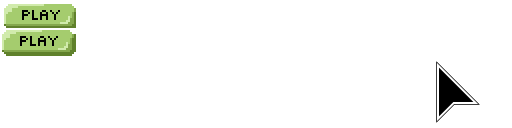
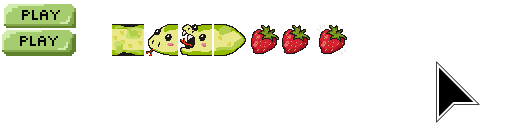
Use new images for fruit and snake

Changed region(s): [[0.2188, 0.1875, 0.6875, 0.4375]]

diff --git a/core/src/main/kotlin/fr/mwet/snake/entities/Snake.kt b/core/src/main/kotlin/fr/mwet/snake/entities/Snake.kt
@@ -10,7 +10,6 @@ import fr.mwet.snake.assets.AssetHandler
 import fr.mwet.snake.utils.SoundHelper
 import fr.mwet.snake.utils.WORLD_HEIGHT
 import fr.mwet.snake.utils.WORLD_WIDTH
-import fr.mwet.snake.utils.resetColor
 import ktx.assets.invoke
 import ktx.assets.pool
 import kotlin.math.abs
@@ -19,18 +18,23 @@ import kotlin.random.Random
 const val SNAKE_DEFAULT_SPEED = 6f
 
 class Snake(val gameWorld: GameWorld) {
-//    private val gameWorld = DI.inject<GameWorld>()
+    //    private val gameWorld = DI.inject<GameWorld>()
     private val assetHandler = DI.inject<AssetHandler>()
     private val soundHelper = DI.inject<SoundHelper>()
-    private val directionMap = arrayOf(intArrayOf(0, 1), intArrayOf(1, 0), intArrayOf(0, -1), intArrayOf(-1, 0))
     private val segmentPool = pool { Segment() }
 
     private var eTime = 0f
-    private val animation = Animation(1f / 8f, assetHandler.snakeSegment, Animation.PlayMode.LOOP_PINGPONG)
+    private val originalAnimation =
+        Animation(1f / 8f, assetHandler.snakeSegmentAnimation, Animation.PlayMode.LOOP_PINGPONG)
+    private val animation =
+        Animation(1f / 2f, assetHandler.snakeHeadAnimation, Animation.PlayMode.LOOP_PINGPONG)
+    private val animationFlipped =
+        Animation(1f / 2f, assetHandler.snakeHeadFlippedAnimation, Animation.PlayMode.LOOP_PINGPONG)
     private var color = Color.WHITE
     private lateinit var head: Segment
     private lateinit var tail: Segment
-    private var currentDirection: Int = 0
+
+    private var currentDirection: Direction = Direction.UP
     private var nextX: Int = 0
     private var nextY: Int = 0
     private var currentSpeed = SNAKE_DEFAULT_SPEED
@@ -43,7 +47,7 @@ class Snake(val gameWorld: GameWorld) {
     fun reset() {
         isDisintegrating = false
         eTime = 0f
-        currentDirection = 0
+        currentDirection = Direction.UP
         color = Color.WHITE
         currentSpeed = SNAKE_DEFAULT_SPEED
 
@@ -65,7 +69,7 @@ class Snake(val gameWorld: GameWorld) {
 
     fun render(batch: SpriteBatch, delta: Float) {
         eTime += delta
-        batch.setColor(color)
+//        batch.setColor(color)
 
         if (isDisintegrating) {
             var segment: Segment? = tail
@@ -73,7 +77,7 @@ class Snake(val gameWorld: GameWorld) {
                 segment.x += (segment.tx - segment.x) * delta * 2f
                 segment.y += (segment.ty - segment.y) * delta * 2f
                 batch.draw(
-                    animation.getKeyFrame(eTime),
+                    originalAnimation.getKeyFrame(eTime),
                     segment.x,
                     segment.y,
                     0.5f,
@@ -94,7 +98,36 @@ class Snake(val gameWorld: GameWorld) {
                     segment.x += (next.ox - segment.ox) * delta * currentSpeed
                     segment.y += (next.oy - segment.oy) * delta * currentSpeed
                 }
-                batch.draw(animation.getKeyFrame(eTime), segment.x, segment.y, 1f, 1f)
+                if (segment == tail) {
+//                    batch.draw(assetHandler.snakeTail, segment.x, segment.y, 1f, 1f)
+                    batch.draw(
+                        assetHandler.snakeTail,
+                        segment.x,
+                        segment.y,
+                        0.5f,
+                        0.5f,
+                        1f,
+                        1f,
+                        1f,
+                        1f,
+                        segment.getAngleFromNext()
+                    )
+                } else if (segment == head) {
+                } else {
+//                    batch.draw(animation.getKeyFrame(eTime), segment.x, segment.y, 1f, 1f)
+                    batch.draw(
+                        assetHandler.snakeBody,
+                        segment.x,
+                        segment.y,
+                        0.5f,
+                        0.5f,
+                        1f,
+                        1f,
+                        1f,
+                        1f,
+                        segment.getAngleFromNext()
+                    )
+                }
                 segment = next
             }
 
@@ -103,11 +136,38 @@ class Snake(val gameWorld: GameWorld) {
 
             if (hitBoundariesTest() || hitBodyTest()) disintegrate()
 
-            batch.draw(animation.getKeyFrame(eTime), head.x, head.y, 1f, 1f)
+//            batch.draw(animation.getKeyFrame(eTime), head.x, head.y, 1f, 1f)
+            if (currentDirection == Direction.RIGHT) {
+                batch.draw(
+                    animationFlipped.getKeyFrame(eTime),
+                    head.x,
+                    head.y,
+                    0.5f,
+                    0.5f,
+                    1f,
+                    1f,
+                    1f,
+                    1f,
+                    head.getAngleFromDirection(currentDirection)
+                )
+            } else {
+                batch.draw(
+                    animation.getKeyFrame(eTime),
+                    head.x,
+                    head.y,
+                    0.5f,
+                    0.5f,
+                    1f,
+                    1f,
+                    1f,
+                    1f,
+                    head.getAngleFromDirection(currentDirection)
+                )
+            }
             if (abs(nextX - head.x) < 0.15f && abs(nextY - head.y) < 0.15f) shiftSegments()
         }
 
-        batch.resetColor()
+//        batch.resetColor()
     }
 
     private fun shiftSegments() {
@@ -130,12 +190,12 @@ class Snake(val gameWorld: GameWorld) {
     }
 
     private fun updateNext() {
-        nextX = head.ox + directionMap[currentDirection][0]
-        nextY = head.oy + directionMap[currentDirection][1]
+        nextX = head.ox + currentDirection.directionX
+        nextY = head.oy + currentDirection.directionY
     }
 
-    fun setDirection(newDirection: Int) {
-        if (abs((currentDirection - newDirection).toDouble()) == 2.0) return
+    fun setDirection(newDirection: Direction) {
+        if (newDirection.isOpposite(currentDirection)) return
         currentDirection = newDirection
     }
 
@@ -225,5 +285,40 @@ data class Segment(
         x = 0f
         y = 0f
         next = null
+    }
+
+    fun getAngleFromDirection(direction: Direction): Float {
+        return when (direction) {
+            Direction.UP -> 270f
+            Direction.RIGHT -> 180f
+            Direction.DOWN -> 90f
+            Direction.LEFT -> 0f
+        }
+    }
+
+    fun getAngleFromNext(): Float {
+        val direction = if (next == null) Direction.UP
+        else if (ox < next!!.ox) Direction.RIGHT
+        else if (ox > next!!.ox) Direction.LEFT
+        else if (oy > next!!.oy) Direction.DOWN
+        else if (oy < next!!.oy) Direction.UP
+        else /* WTF */ Direction.UP
+
+        return getAngleFromDirection(direction)
+    }
+}
+
+enum class Direction(val directionX: Int, val directionY: Int) {
+    UP(0, 1),
+    RIGHT(1, 0),
+    DOWN(0, -1),
+    LEFT(-1, 0);
+
+    fun isOpposite(direction: Direction): Boolean {
+        if (this == DOWN && direction == UP) return true
+        if (this == UP && direction == DOWN) return true
+        if (this == RIGHT && direction == LEFT) return true
+        if (this == LEFT && direction == RIGHT) return true
+        return false
     }
 }

diff --git a/core/src/main/kotlin/fr/mwet/snake/assets/AssetHandler.kt b/core/src/main/kotlin/fr/mwet/snake/assets/AssetHandler.kt
@@ -16,6 +16,7 @@ import ktx.assets.DisposableContainer
 import ktx.assets.DisposableRegistry
 import ktx.assets.getValue
 import ktx.assets.loadAsset
+import ktx.collections.toGdxArray
 import java.util.*
 
 val BACKGROUND_COLOR: Color = Color.valueOf("#1f1f1f")
@@ -64,8 +65,18 @@ class AssetHandler(private val assetManager: AssetManager) : DisposableRegistry 
 
     // Gameplay
     val gridCell: AtlasRegion by lazy { textureAtlas.findRegion("$assetsRoot/GridCell") }
-    val food: Array<AtlasRegion> by lazy { textureAtlas.findRegions("$assetsRoot/Food") }
-    val snakeSegment: Array<AtlasRegion> by lazy { textureAtlas.findRegions("$assetsRoot/SnakeSegment") }
+    val foodAnimation: Array<AtlasRegion> by lazy { textureAtlas.findRegions("$assetsRoot/Food") }
+    val snakeSegmentAnimation: Array<AtlasRegion> by lazy { textureAtlas.findRegions("$assetsRoot/SnakeSegment") }
+
+    val strawberry: AtlasRegion by lazy { textureAtlas.findRegion("$assetsRoot/Strawberry") }
+    val strawberryAnimation: Array<AtlasRegion> by lazy { textureAtlas.findRegions("$assetsRoot/StrawberryAnimation") }
+    val snakeHead: AtlasRegion by lazy { textureAtlas.findRegion("$assetsRoot/SnakeHead") }
+    val snakeHeadAnimation: Array<AtlasRegion> by lazy { textureAtlas.findRegions("$assetsRoot/SnakeHeadAnimation") }
+    val snakeHeadFlippedAnimation: Array<AtlasRegion> by lazy {
+        snakeHeadAnimation.map { AtlasRegion(it).apply { flip(false, true) } }.toGdxArray()
+    }
+    val snakeBody: AtlasRegion by lazy { textureAtlas.findRegion("$assetsRoot/SnakeBody") }
+    val snakeTail: AtlasRegion by lazy { textureAtlas.findRegion("$assetsRoot/SnakeTail") }
 
     val background: Texture by lazy { initBackground() }
 

diff --git a/core/src/main/kotlin/fr/mwet/snake/inputs/GameInputProcessor.kt b/core/src/main/kotlin/fr/mwet/snake/inputs/GameInputProcessor.kt
@@ -4,6 +4,7 @@ import com.badlogic.gdx.Input.Keys.*
 import fr.mwet.snake.entities.Snake
 import fr.mwet.snake.DI
 import fr.mwet.snake.Game
+import fr.mwet.snake.entities.Direction
 import fr.mwet.snake.screens.MainMenuScreen
 import ktx.app.KtxInputAdapter
 
@@ -12,10 +13,10 @@ class GameInputProcessor(private val snake: Snake) : KtxInputAdapter {
 
     override fun keyDown(keycode: Int): Boolean {
         when (keycode) {
-            UP, W -> snake.setDirection(0)
-            RIGHT, D -> snake.setDirection(1)
-            DOWN, S -> snake.setDirection(2)
-            LEFT, A -> snake.setDirection(3)
+            UP, W -> snake.setDirection(Direction.UP)
+            RIGHT, D -> snake.setDirection(Direction.RIGHT)
+            DOWN, S -> snake.setDirection(Direction.DOWN)
+            LEFT, A -> snake.setDirection(Direction.LEFT)
             ESCAPE -> game.setScreen<MainMenuScreen>()
         }
         return true

diff --git a/core/src/main/kotlin/fr/mwet/snake/entities/Food.kt b/core/src/main/kotlin/fr/mwet/snake/entities/Food.kt
@@ -14,16 +14,17 @@ class Food {
     private val assetHandler = DI.inject<AssetHandler>()
 
     private var eTime = 0f
-    private val animation = Animation(1f / 8f, assetHandler.food, Animation.PlayMode.LOOP_PINGPONG)
+//    private val animation = Animation(1f / 8f, assetHandler.foodAnimation, Animation.PlayMode.LOOP_PINGPONG)
+    private val animation = Animation(1f / 2f, assetHandler.strawberryAnimation, Animation.PlayMode.LOOP_PINGPONG)
     var x = 0
     var y = 0
     var color: Color = FOOD_COLORS.random()
 
     fun render(batch: SpriteBatch, delta: Float) {
         eTime += delta
-        batch.setColor(color)
+//        batch.setColor(color)
         batch.draw(animation.getKeyFrame(eTime), x.toFloat(), y.toFloat(), 1f, 1f)
-        batch.resetColor()
+//        batch.resetColor()
     }
 
     fun reset(snake: Snake) {

diff --git a/core/src/main/kotlin/fr/mwet/snake/entities/GameWorld.kt b/core/src/main/kotlin/fr/mwet/snake/entities/GameWorld.kt
@@ -29,7 +29,7 @@ class GameWorld {
     private fun newGame() {
         food.reset(snake)
         snake.reset()
-//        snake.setSpeed(3f)
+        snake.setSpeed(3f)
     }
 
     fun lost() {